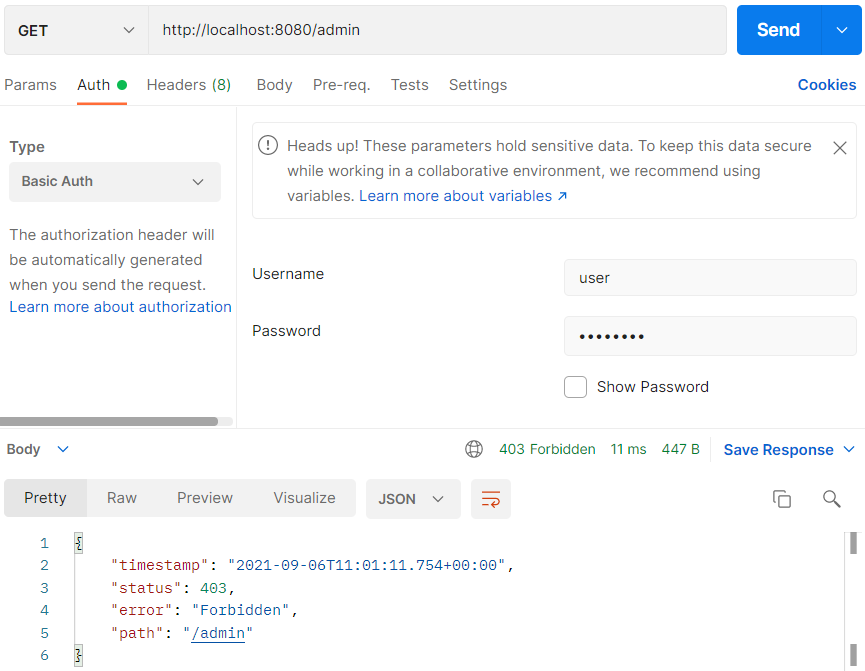
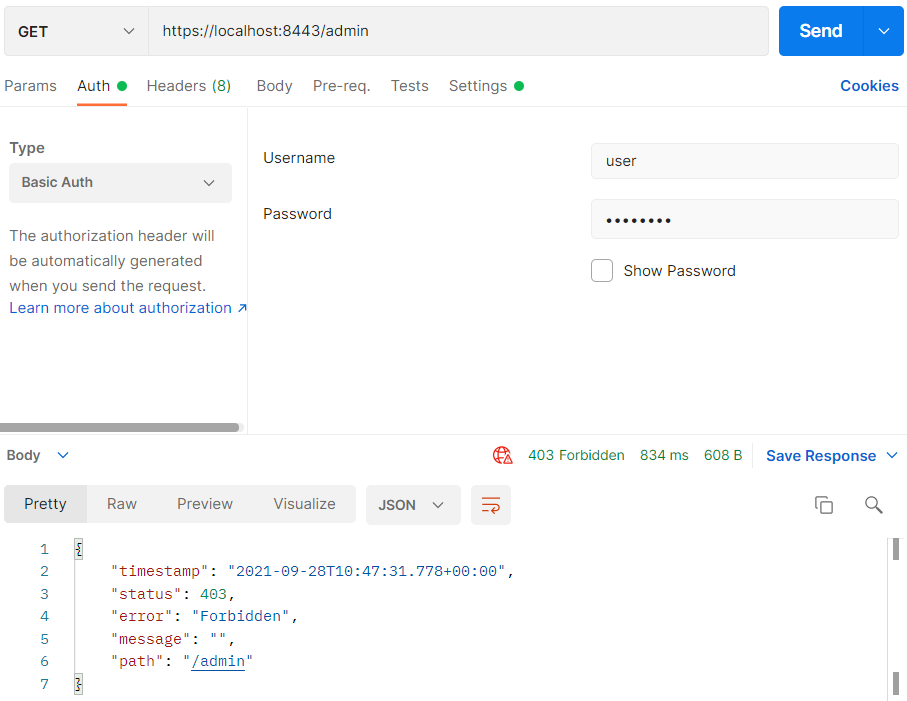
updated security pt4

diff --git a/security_pt4.md b/security_pt4.md
@@ -4,36 +4,14 @@ Het nadeel van voorgaande code in `SpringSecurityConfig.java` is dat we de users
 noemen ze `inMemoryAuthentication`. Wat we eigenlijk willen is een user tabel in onze database, waarbij we users
 kunnen toevoegen, verwijderen, rollen kunnen geven en wachtwoorden kunnen opslaan.
 
-We maken een nieuw IntelliJ project in de Initializr.
+### Controller
 
-Maak een nieuwe map aan `controller` met daarin 4 bestanden: `AdminController.java`, `AuthenticatedController.java`
-, `BaseController.java` en `CustomersController.java`
-
-_AdminController.java_
-
-```java
-package nl.danielle.demo_second_security.controller;
-
-import org.springframework.http.HttpStatus;
-import org.springframework.http.ResponseEntity;
-import org.springframework.validation.annotation.Validated;
-import org.springframework.web.bind.annotation.RequestMapping;
-import org.springframework.web.bind.annotation.RestController;
-
-@RestController
-public class AdminController {
-
-    @RequestMapping(value = "/admin")
-    public ResponseEntity<Object> getMessage() {
-        return new ResponseEntity<>("SECURED REST endpoint: /admin", HttpStatus.OK);
-    }
-}
-```
+In de map `controller` hebben we 4 bestanden: `AdminController.java`, `BaseController.java`, `AuthenticatedController.java` en `CustomersController.java`
 
 _AuthenticatedController.java_
 
 ```java
-package nl.danielle.demo_second_security.controller;
+package nl.danielle.security_demo.controller;
 
 import org.springframework.http.ResponseEntity;
 import org.springframework.security.core.Authentication;
@@ -54,52 +32,32 @@ public class AuthenticatedController {
 }
 ```
 
-_BaseController.java_
-
-```java
-package nl.danielle.demo_second_security.controller;
-
-import org.springframework.http.HttpStatus;
-import org.springframework.web.bind.annotation.RequestMapping;
-import org.springframework.web.bind.annotation.ResponseStatus;
-import org.springframework.web.bind.annotation.RestController;
-
-@RestController
-public class BaseController {
-
-    @RequestMapping(value = "/")
-    @ResponseStatus(HttpStatus.OK)
-    public String hello() {
-        return "Hello World";
-    }
-}
-```
-
 _CustomersController.java_
 
 ```java
-package nl.danielle.demo_second_security.controller;
+package nl.danielle.security_demo.controller;
 
 import org.springframework.http.HttpStatus;
 import org.springframework.http.ResponseEntity;
-import org.springframework.validation.annotation.Validated;
-import org.springframework.web.bind.annotation.RequestMapping;
+import org.springframework.web.bind.annotation.GetMapping;
 import org.springframework.web.bind.annotation.RestController;
 
 @RestController
 public class CustomersController {
 
-    @RequestMapping(value = "/customers")
+    @GetMapping(value = "/customers")
     public ResponseEntity<Object> getMessage() {
         return new ResponseEntity<>("SECURED REST endpoint: /customers", HttpStatus.OK);
     }
 }
 ```
 
-Maak een map `config` aan met een bestand `SpringSecurityConfig.java`.
+### Config
+
+In de map `config` staat het bestand `SpringSecurityConfig.java`.
 
 ```java
-package nl.danielle.demo_second_security.config;
+package nl.danielle.security_demo.config;
 
 import org.springframework.beans.factory.annotation.Autowired;
 import org.springframework.context.annotation.Bean;
@@ -166,17 +124,19 @@ Een `jdbcAuthentication` werkt op basis van een query naar een database (datasou
 
 - We moeten de volgende tabellen krijgen: `my_users` en `my_authorities`.
 - We kunnen zoeken op `username`
-- Bij `my_users` krijgen we op basis van `username` een `username`, `password`, `enabled` terug
+- Bij `my_users` krijgen we op basis van `username` een `username`, `password` en `enabled` terug
 - Bij `my_authorities` krijgen we op basis van `username` de `username` en `authority` (de rol) terug
 
 De endpoints die we hebben zijn: `/customers`, `/admin `en `/authenticated`.
 
 Bij de `.antMatchers` zie je `HttpMethod.GET` staan. Dit hoef je niet te specificeren, dat mag je weglaten, dan geldt
-het voor alle HTTP methods. Je kunt specificeren dat bijvoorbeeld als je ingelogd ben, dat je mag veranderen.
+het voor alle HTTP methods en niet alleen `GET`. Je kunt specificeren dat bijvoorbeeld als je ingelogd bent, dat je mag veranderen.
 
 `"/authenticated/**").authenticated()` is hetzelfde als `hasRole` maar is voor iedere user die is ingelogd.
 
-In `schema.sql` creeër je de tabellen voor in de database.
+### schema.sql
+
+Maak een nieuw bestand aan in resources genaamd `schema.sql`. In `schema.sql` creëer je de tabellen voor in de database.
 
 ```sql
 drop index if exists ix_auth_username;
@@ -202,7 +162,7 @@ create table my_authorities
 create unique index ix_auth_username on my_authorities (username, authority);
 ```
 
-In `data.sql` voegen we records toe.
+Maak een nieuw bestand aan in resources genaamd `data.sql`. In `data.sql` voegen we records toe.
 
 ```sql
 INSERT INTO my_users (username, password, enabled)
@@ -218,11 +178,11 @@ INSERT INTO my_authorities (username, authority)
 VALUES ('admin', 'ROLE_ADMIN');
 ```
 
-Run de applicatie.
+### Run de applicatie
 
-Ga naar PostgreSQL en kijk in de tabel `demo_second_security`.
+Ga naar PostgreSQL en kijk in de tabel `security_demo`.
 
-De applicatie heeft twee tabellen gemaakt: `my_users` en `my_authorities`
+De applicatie heeft twee tabellen gemaakt: `my_authorities` en `my_users`.
 
 ![img97.png](images/img97.png)
 
@@ -236,23 +196,23 @@ Bij `my_authorities` staan de rollen van de users erin.
 
 ![img100.png](images/img100.png)
 
-Ga naar Postman en vul de url `http://localhost:8080/admin` in met als username `user`.
+Ga naar Postman en vul de url `https://localhost:8443/admin` in met als username `user` en wachtwoord `password`.
 
 ![img101.png](images/img101.png)
 
 Je krijgt een status code `403 forbidden`.
 
-Doe hetzelfde maar dan met user `admin`.
+Doe hetzelfde met user `admin`.
 
 ![img102.png](images/img102.png)
 
-##### Authenticated
+### Authenticated
 
 Authenticated in `SpringSecurityConfig.java` gaat naar de endoint `/authenticated`, die in
 de `AuthenticatedController.java` zit.
 
 ```java
-package nl.danielle.demo_second_security.controller;
+package nl.danielle.security_demo.controller;
 
 import org.springframework.http.ResponseEntity;
 import org.springframework.security.core.Authentication;
@@ -277,11 +237,15 @@ In plaats van een paramater hebben we een argument staan: `Authentication authen
 Principal geeft weer met wat voor credentials je bent ingelogd. De credentials geef je gelijk terug in de
 body: `body(principal)`.
 
-Wanneer je in Postman de volgende url zet: `http://localhost:8080/authenticated`. Je krijgt de gegevens van `admin`
+Wanneer je in Postman de volgende url zet: `https://localhost:8443/authenticated`. Je krijgt de gegevens van `admin`
 terug. Je ziet bijvoorbeeld bij de authorities dat `admin` zowel de rol als admin heeft als user.
 
 ![img103.png](images/img103.png)
 
 Hetzelfde kun je doen wanneer je als `user` bent ingelogd.
 
-Deze gegevens zijn een soort weergave van de interne gegevens die hij heeft van een user. Dat noemen ze de principal.
+Deze gegevens zijn een weergave van de interne gegevens die het systeem heeft van een user. Dat noemen ze de `principal`.
+
+### GitHub
+
+De volledige code is [hier](https://github.com/danielle076/demo_security/tree/pt4) op github te vinden.
